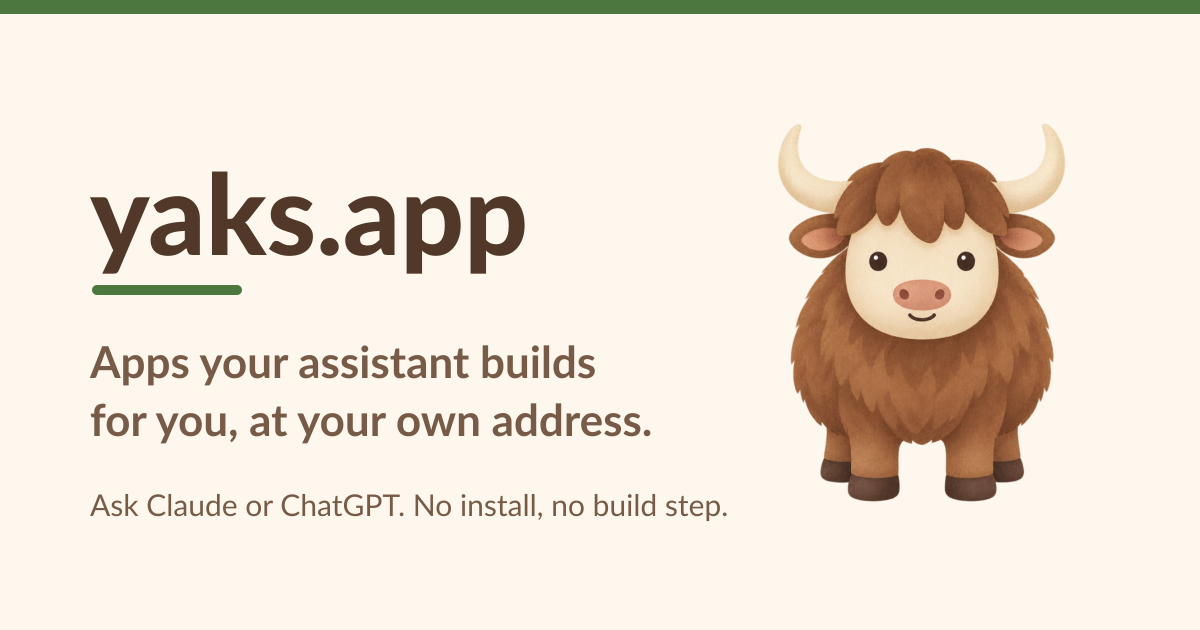
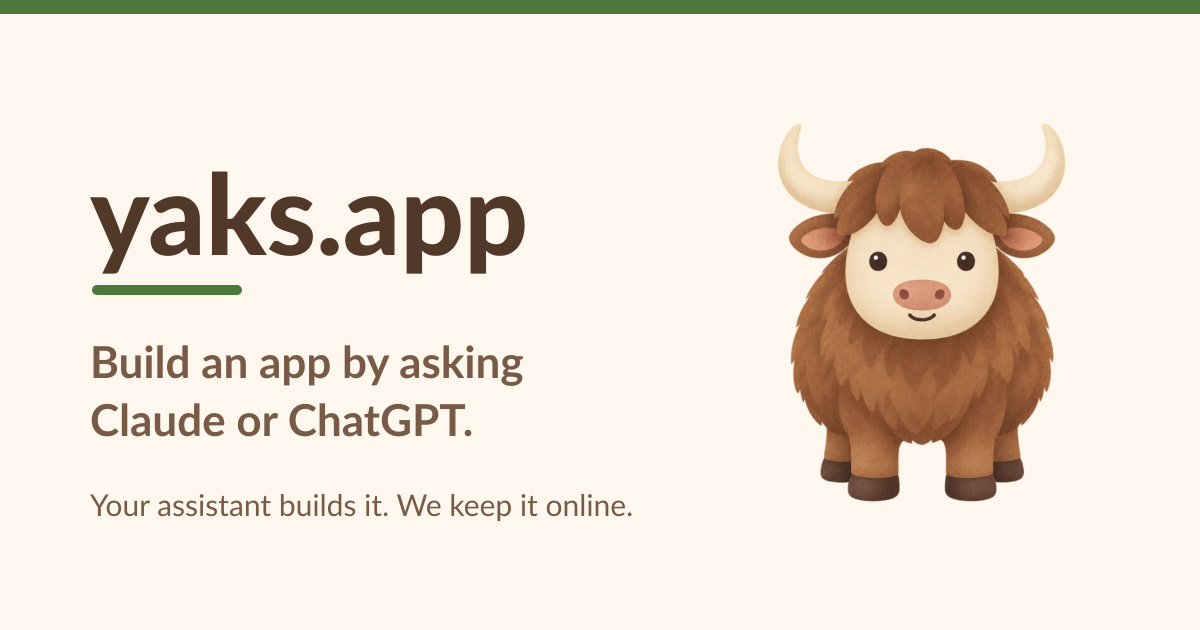
Restore the homepage headline and simplify setup copy
Restore "Build an app by asking Claude or ChatGPT." and its original opening paragraph. Keep the connector description, metadata, and regenerated social preview consistent.

Remove the email sign-in step and code explanation from the homepage. How it works now covers connecting an assistant, describing an app, and using it.

Changed region(s): [[0.0617, 0.5429, 0.555, 0.6937], [0.0617, 0.7841, 0.6167, 0.8444]]

diff --git a/workers/yak/public/index.html b/workers/yak/public/index.html
@@ -4,11 +4,11 @@
     <meta charset="utf-8" />
     <meta name="viewport" content="width=device-width, initial-scale=1" />
     <title>
-      yaks.app — apps your assistant builds for you, at your own address
+      yaks.app — build an app by asking Claude or ChatGPT
     </title>
     <meta
       name="description"
-      content="Ask Claude or ChatGPT for an app and yaks.app hosts it at your own address, with its own data."
+      content="Build an app by asking Claude or ChatGPT. Your assistant builds it, and yaks.app keeps it online. Save things, invite friends, and open it on any phone."
     />
     <meta name="color-scheme" content="light dark" />
     <link rel="canonical" href="https://yaks.app/" />
@@ -16,27 +16,27 @@
     <meta property="og:site_name" content="yaks.app" />
     <meta property="og:url" content="https://yaks.app/" />
     <meta property="og:title"
-      content="yaks.app — apps your assistant builds for you, at your own address" />
+      content="yaks.app — build an app by asking Claude or ChatGPT" />
     <meta
       property="og:description"
-      content="Ask Claude or ChatGPT for an app and yaks.app hosts it at your own address, with its own data."
+      content="Build an app by asking Claude or ChatGPT. Your assistant builds it, and yaks.app keeps it online. Save things, invite friends, and open it on any phone."
     />
     <meta property="og:image" content="https://yaks.app/og.png" />
     <meta property="og:image:width" content="1200" />
     <meta property="og:image:height" content="630" />
     <meta property="og:image:alt"
-      content="yaks.app: apps your assistant builds for you, at your own address" />
+      content="yaks.app: build an app by asking Claude or ChatGPT" />
     <meta property="og:locale" content="en_US" />
     <meta name="twitter:card" content="summary_large_image" />
     <meta name="twitter:title"
-      content="yaks.app — apps your assistant builds for you, at your own address" />
+      content="yaks.app — build an app by asking Claude or ChatGPT" />
     <meta
       name="twitter:description"
-      content="Ask Claude or ChatGPT for an app and yaks.app hosts it at your own address, with its own data."
+      content="Build an app by asking Claude or ChatGPT. Your assistant builds it, and yaks.app keeps it online. Save things, invite friends, and open it on any phone."
     />
     <meta name="twitter:image" content="https://yaks.app/og.png" />
     <meta name="twitter:image:alt"
-      content="yaks.app: apps your assistant builds for you, at your own address" />
+      content="yaks.app: build an app by asking Claude or ChatGPT" />
     <link rel="icon" href="favicon-32.png" type="image/png" sizes="32x32" />
     <link rel="apple-touch-icon" href="apple-touch-icon.png" />
     <link rel="preconnect" href="https://fonts.googleapis.com" />
@@ -66,7 +66,7 @@
           "url": "https://yaks.app/",
           "name": "yaks.app",
           "alternateName": "Yak Shaving",
-          "description": "Apps your assistant builds for you, at your own address.",
+          "description": "Build an app by asking Claude or ChatGPT.",
           "inLanguage": "en-US",
           "publisher": { "@id": "https://yaks.app/#organization" }
         },
@@ -153,16 +153,13 @@
             height="743"
             alt=""
           />
-          <!-- The one heading a search engine reads first, so it says what
-               this place is in the words somebody would type (T-34288). -->
           <h1 id="hello" class="Title Title-hero">
-            yaks.app: apps your assistant builds for you, at your own address.
+            Build an app by asking Claude or ChatGPT.
           </h1>
           <p class="Note Note-lead">
-            Ask Claude or ChatGPT for a recipe box, a trip planner, a sign-up
-            sheet — your assistant builds it, and yaks.app keeps it online.
-            Your app saves your data and works in a browser. Use it on your
-            phone or share it with friends.
+            A recipe box, a trip planner, a sign-up sheet — your assistant
+            builds it, and yaks.app keeps it online. Your app saves your data
+            and works in a browser. Use it on your phone or share it with friends.
           </p>
           <div class="Hello_Doors">
             <a class="Button" href="/login">Start free</a>
@@ -300,18 +297,10 @@
 
         <ol class="Steps">
           <li>
-            <h3 class="Step_Name">Sign in with your email</h3>
-            <p class="Note">
-              We email you a six-digit code — no password to make up.
-              <a href="/login">Start free</a>.
-            </p>
-          </li>
-          <li>
             <h3 class="Step_Name">Connect your assistant</h3>
             <p class="Note">
-              You land on your own space at <b>yourname.yaks.app</b>, and the
-              steps for Claude or ChatGPT are waiting there. It takes a few
-              minutes, once.
+              Follow the <a href="/login">setup steps</a> for Claude or ChatGPT.
+              It takes a few minutes, once.
             </p>
           </li>
           <li>
@@ -330,7 +319,7 @@
           </li>
         </ol>
         <p class="Note Note-small">
-          No assistant yet? Sign in and say what you want on your own page:
+          No assistant yet? Describe what you want on your own page:
           your first app, built for you, free. Every plan includes a number of
           apps built this way.
         </p>
@@ -378,9 +367,7 @@
       <section class="Join Card" aria-labelledby="join">
         <h2 id="join" class="Title">What would you like to make?</h2>
         <p class="Note">
-          Sign in with your email, we send a six-digit code, and you land on
-          your own space. Connect your assistant there and describe your first
-          app.
+          Connect your assistant and describe your first app.
         </p>
         <p class="Join_Doors">
           <a class="Button" href="/login">Start free</a>

diff --git a/workers/yak/site_test.ts b/workers/yak/site_test.ts
@@ -71,10 +71,10 @@ let png = (name: string, width: number, height: number, kind = 6) => {
   assertEquals(bytes[25], kind, `${name} has the wrong color type`)
 }
 
-Deno.test('the yak exports have their intended transparent sizes', () => {
-  // The share card is the one that is not the yak alone: 1200×630 is what
+Deno.test('the yak exports have their intended sizes and transparency', () => {
+  // The opaque share card is not the yak alone: 1200×630 is what
   // every unfurler crops to, and og.svg beside it is what it is drawn from.
-  png('og.png', 1200, 630)
+  png('og.png', 1200, 630, 2)
   png('yak.png', 768, 743)
   png('favicon-32.png', 32, 32)
   png('apple-touch-icon.png', 180, 180)
@@ -323,18 +323,12 @@ Deno.test('every page carries the head an engine reads', () => {
   assertEquals(new Set(titles).size, titles.length, 'two pages share a title')
 })
 
-// The home page's own heading is what a search result is built out of, so it
-// says the whole thing rather than a verb.
-Deno.test('the home page names itself in its first heading', () => {
+Deno.test('the home page explains how to build an app in its first heading', () => {
   let h1 = /<h1[^>]*>([\s\S]*?)<\/h1>/.exec(read('index.html'))![1]
-  assertStringIncludes(flat(h1), 'yaks.app')
-  assertStringIncludes(flat(h1), 'your own address')
+  assertEquals(flat(h1).trim(), 'Build an app by asking Claude or ChatGPT.')
 })
 
-// The way in is sign-in, everywhere (T-34408). Attaching an assistant is the
-// SECOND step and its instructions live on the space a sign-in lands on, so no
-// public page hands a stranger `/connect` — and the home page's doors and copy
-// say the order: email, a code, your own space, connect your assistant there.
+// Setup links lead through sign-in; the homepage explains what people can do.
 Deno.test('every public page hands a stranger sign-in, never /connect', () => {
   for (let page of branded) {
     let body = read(page).split('</head>')[1] ?? ''
@@ -344,18 +338,10 @@ Deno.test('every public page hands a stranger sign-in, never /connect', () => {
   let doors = [...html.matchAll(/<a class="Button" href="([^"]+)"/g)]
     .map((m) => m[1])
   assertEquals(doors, ['/login', '/login'], 'a home-page door misses sign-in')
-  let how = flat(html.split('id="how"')[1].split('</section>')[0])
-  assertStringIncludes(how, 'Sign in with your email')
-  assertStringIncludes(how, 'six-digit code')
-  assertStringIncludes(how, 'Connect your assistant')
-  assert(
-    how.indexOf('Sign in with your email') <
-      how.indexOf('Connect your assistant'),
-    'the home page still connects before it signs in',
+  assertEquals(
+    [...html.matchAll(/<h3 class="Step_Name">([^<]+)<\/h3>/g)].map((m) => m[1]),
+    ['Connect your assistant', 'Describe what you need', 'Open it and use it'],
   )
-  let join = flat(html.split('id="join"')[1].split('</section>')[0])
-  assertStringIncludes(join, 'land on your own space')
-  assertStringIncludes(join, 'Connect your assistant there')
 })
 
 Deno.test('sign-in welcomes new visitors, including those from an assistant', async () => {
@@ -702,11 +688,11 @@ Deno.test('the connect page shows the connector its own face', async () => {
   assertStringIncludes(html, `<a href="${SITE_URL}/connector-512.png">`)
   assertEquals(
     CONNECTOR.description,
-    'Apps your assistant builds for you, at your own address.',
+    'Build an app by asking Claude or ChatGPT.',
   )
   assertStringIncludes(
     html,
-    '<span class="Pick">Apps your assistant builds for you, at your own address.</span>',
+    '<span class="Pick">Build an app by asking Claude or ChatGPT.</span>',
   )
   assertStringIncludes(html, '<span class="Pick">yaks.app</span>')
 })

diff --git a/workers/yak/seo.ts b/workers/yak/seo.ts
@@ -45,7 +45,7 @@ let at = (path: string) => `${SITE_URL}${path}`
 export let CONNECTOR = {
   name: PLATFORM,
   title: PLATFORM,
-  description: 'Apps your assistant builds for you, at your own address.',
+  description: 'Build an app by asking Claude or ChatGPT.',
   websiteUrl: SITE_URL,
   icons: [
     { src: at('/connector.svg'), mimeType: 'image/svg+xml', sizes: ['any'] },
@@ -134,7 +134,7 @@ export let CLOSED = ['/login', '/connect', '/mcp', '/api/', '/gallery/review']
 
 export let robots = () =>
   [
-    '# yaks.app — apps your assistant builds for you, at your own address.',
+    '# yaks.app — build an app by asking Claude or ChatGPT.',
     '# Crawling and reading here is welcome; the guide is at',
     `# ${WHOLE}, and ${at('/llms.txt')} is the short index of it.`,
     '',
@@ -199,10 +199,9 @@ export let llms = (
   [
     '# yaks.app',
     '',
-    '> Apps your assistant builds for you, at your own address. Ask Claude or',
-    '> ChatGPT for a recipe box, a sign-up sheet or a trip planner; it is built',
-    '> and hosted at yourname.yaks.app, keeps its own data, and opens in any',
-    '> browser.',
+    '> Build an app by asking Claude or ChatGPT. A recipe box, a sign-up sheet,',
+    '> a trip planner — your assistant builds it, and yaks.app keeps it online.',
+    '> Your app lives at yourname.yaks.app, saves your data, and works in a browser.',
     '',
     'An app is an index.html and the files beside it, served live, with a graph',
     'store behind it and no build step. An assistant connects over MCP at',

diff --git a/workers/yak/public/terms.html b/workers/yak/public/terms.html
@@ -36,7 +36,7 @@
     <meta property="og:image:width" content="1200" />
     <meta property="og:image:height" content="630" />
     <meta property="og:image:alt"
-      content="yaks.app: apps your assistant builds for you, at your own address" />
+      content="yaks.app: build an app by asking Claude or ChatGPT" />
     <meta property="og:locale" content="en_US" />
     <meta name="twitter:card" content="summary_large_image" />
     <meta name="twitter:title" content="Terms of service" />
@@ -46,7 +46,7 @@
     />
     <meta name="twitter:image" content="https://yaks.app/og.png" />
     <meta name="twitter:image:alt"
-      content="yaks.app: apps your assistant builds for you, at your own address" />
+      content="yaks.app: build an app by asking Claude or ChatGPT" />
     <link rel="icon" href="favicon-32.png" type="image/png" sizes="32x32" />
     <link rel="apple-touch-icon" href="apple-touch-icon.png" />
     <link rel="preconnect" href="https://fonts.googleapis.com" />

diff --git a/workers/yak/public/acceptable-use.html b/workers/yak/public/acceptable-use.html
@@ -29,7 +29,7 @@
     <meta property="og:image:width" content="1200" />
     <meta property="og:image:height" content="630" />
     <meta property="og:image:alt"
-      content="yaks.app: apps your assistant builds for you, at your own address" />
+      content="yaks.app: build an app by asking Claude or ChatGPT" />
     <meta property="og:locale" content="en_US" />
     <meta name="twitter:card" content="summary_large_image" />
     <meta name="twitter:title" content="Acceptable use" />
@@ -39,7 +39,7 @@
     />
     <meta name="twitter:image" content="https://yaks.app/og.png" />
     <meta name="twitter:image:alt"
-      content="yaks.app: apps your assistant builds for you, at your own address" />
+      content="yaks.app: build an app by asking Claude or ChatGPT" />
     <link rel="icon" href="favicon-32.png" type="image/png" sizes="32x32" />
     <link rel="apple-touch-icon" href="apple-touch-icon.png" />
     <link rel="preconnect" href="https://fonts.googleapis.com" />

diff --git a/workers/yak/public/privacy.html b/workers/yak/public/privacy.html
@@ -44,7 +44,7 @@
     <meta property="og:image:width" content="1200" />
     <meta property="og:image:height" content="630" />
     <meta property="og:image:alt"
-      content="yaks.app: apps your assistant builds for you, at your own address" />
+      content="yaks.app: build an app by asking Claude or ChatGPT" />
     <meta property="og:locale" content="en_US" />
     <meta name="twitter:card" content="summary_large_image" />
     <meta name="twitter:title" content="Privacy policy" />
@@ -54,7 +54,7 @@
     />
     <meta name="twitter:image" content="https://yaks.app/og.png" />
     <meta name="twitter:image:alt"
-      content="yaks.app: apps your assistant builds for you, at your own address" />
+      content="yaks.app: build an app by asking Claude or ChatGPT" />
     <link rel="icon" href="favicon-32.png" type="image/png" sizes="32x32" />
     <link rel="apple-touch-icon" href="apple-touch-icon.png" />
     <link rel="preconnect" href="https://fonts.googleapis.com" />

diff --git a/workers/yak/public/style-guide.html b/workers/yak/public/style-guide.html
@@ -23,7 +23,7 @@
     <meta property="og:image:width" content="1200" />
     <meta property="og:image:height" content="630" />
     <meta property="og:image:alt"
-      content="yaks.app: apps your assistant builds for you, at your own address" />
+      content="yaks.app: build an app by asking Claude or ChatGPT" />
     <meta property="og:locale" content="en_US" />
     <meta name="twitter:card" content="summary_large_image" />
     <meta name="twitter:title" content="Style guide" />
@@ -33,7 +33,7 @@
     />
     <meta name="twitter:image" content="https://yaks.app/og.png" />
     <meta name="twitter:image:alt"
-      content="yaks.app: apps your assistant builds for you, at your own address" />
+      content="yaks.app: build an app by asking Claude or ChatGPT" />
     <link rel="icon" href="favicon-32.png" type="image/png" sizes="32x32" />
     <link rel="apple-touch-icon" href="apple-touch-icon.png" />
     <link rel="preconnect" href="https://fonts.googleapis.com" />

diff --git a/workers/yak/public/cookies.html b/workers/yak/public/cookies.html
@@ -30,7 +30,7 @@
     <meta property="og:image:width" content="1200" />
     <meta property="og:image:height" content="630" />
     <meta property="og:image:alt"
-      content="yaks.app: apps your assistant builds for you, at your own address" />
+      content="yaks.app: build an app by asking Claude or ChatGPT" />
     <meta property="og:locale" content="en_US" />
     <meta name="twitter:card" content="summary_large_image" />
     <meta name="twitter:title" content="Cookies" />
@@ -40,7 +40,7 @@
     />
     <meta name="twitter:image" content="https://yaks.app/og.png" />
     <meta name="twitter:image:alt"
-      content="yaks.app: apps your assistant builds for you, at your own address" />
+      content="yaks.app: build an app by asking Claude or ChatGPT" />
     <link rel="icon" href="favicon-32.png" type="image/png" sizes="32x32" />
     <link rel="apple-touch-icon" href="apple-touch-icon.png" />
     <link rel="preconnect" href="https://fonts.googleapis.com" />

diff --git a/workers/yak/public/help.html b/workers/yak/public/help.html
@@ -31,7 +31,7 @@
     <meta property="og:image:width" content="1200" />
     <meta property="og:image:height" content="630" />
     <meta property="og:image:alt"
-      content="yaks.app: apps your assistant builds for you, at your own address" />
+      content="yaks.app: build an app by asking Claude or ChatGPT" />
     <meta property="og:locale" content="en_US" />
     <meta name="twitter:card" content="summary_large_image" />
     <meta name="twitter:title"
@@ -42,7 +42,7 @@
     />
     <meta name="twitter:image" content="https://yaks.app/og.png" />
     <meta name="twitter:image:alt"
-      content="yaks.app: apps your assistant builds for you, at your own address" />
+      content="yaks.app: build an app by asking Claude or ChatGPT" />
     <link rel="icon" href="favicon-32.png" type="image/png" sizes="32x32" />
     <link rel="apple-touch-icon" href="apple-touch-icon.png" />
     <link rel="preconnect" href="https://fonts.googleapis.com" />

diff --git a/workers/yak/public/pricing.html b/workers/yak/public/pricing.html
@@ -38,7 +38,7 @@
     <meta property="og:image:width" content="1200" />
     <meta property="og:image:height" content="630" />
     <meta property="og:image:alt"
-      content="yaks.app: apps your assistant builds for you, at your own address" />
+      content="yaks.app: build an app by asking Claude or ChatGPT" />
     <meta property="og:locale" content="en_US" />
     <meta name="twitter:card" content="summary_large_image" />
     <meta name="twitter:title"
@@ -49,7 +49,7 @@
     />
     <meta name="twitter:image" content="https://yaks.app/og.png" />
     <meta name="twitter:image:alt"
-      content="yaks.app: apps your assistant builds for you, at your own address" />
+      content="yaks.app: build an app by asking Claude or ChatGPT" />
     <link rel="icon" href="favicon-32.png" type="image/png" sizes="32x32" />
     <link rel="apple-touch-icon" href="apple-touch-icon.png" />
     <link rel="preconnect" href="https://fonts.googleapis.com" />

diff --git a/workers/yak/public/technical.html b/workers/yak/public/technical.html
@@ -38,7 +38,7 @@
     <meta property="og:image:width" content="1200" />
     <meta property="og:image:height" content="630" />
     <meta property="og:image:alt"
-      content="yaks.app: apps your assistant builds for you, at your own address" />
+      content="yaks.app: build an app by asking Claude or ChatGPT" />
     <meta property="og:locale" content="en_US" />
     <meta name="twitter:card" content="summary_large_image" />
     <meta name="twitter:title"
@@ -49,7 +49,7 @@
     />
     <meta name="twitter:image" content="https://yaks.app/og.png" />
     <meta name="twitter:image:alt"
-      content="yaks.app: apps your assistant builds for you, at your own address" />
+      content="yaks.app: build an app by asking Claude or ChatGPT" />
     <link rel="icon" href="favicon-32.png" type="image/png" sizes="32x32" />
     <link rel="apple-touch-icon" href="apple-touch-icon.png" />
     <link rel="preconnect" href="https://fonts.googleapis.com" />

diff --git a/workers/yak/mcp_test.ts b/workers/yak/mcp_test.ts
@@ -47,7 +47,7 @@ let facing = (info: Record<string, unknown>) => {
   assertEquals(info.title, 'yaks.app')
   assertEquals(
     info.description,
-    'Apps your assistant builds for you, at your own address.',
+    'Build an app by asking Claude or ChatGPT.',
   )
   assertEquals(info.websiteUrl, 'https://yaks.app')
   assertEquals(info.icons, [
